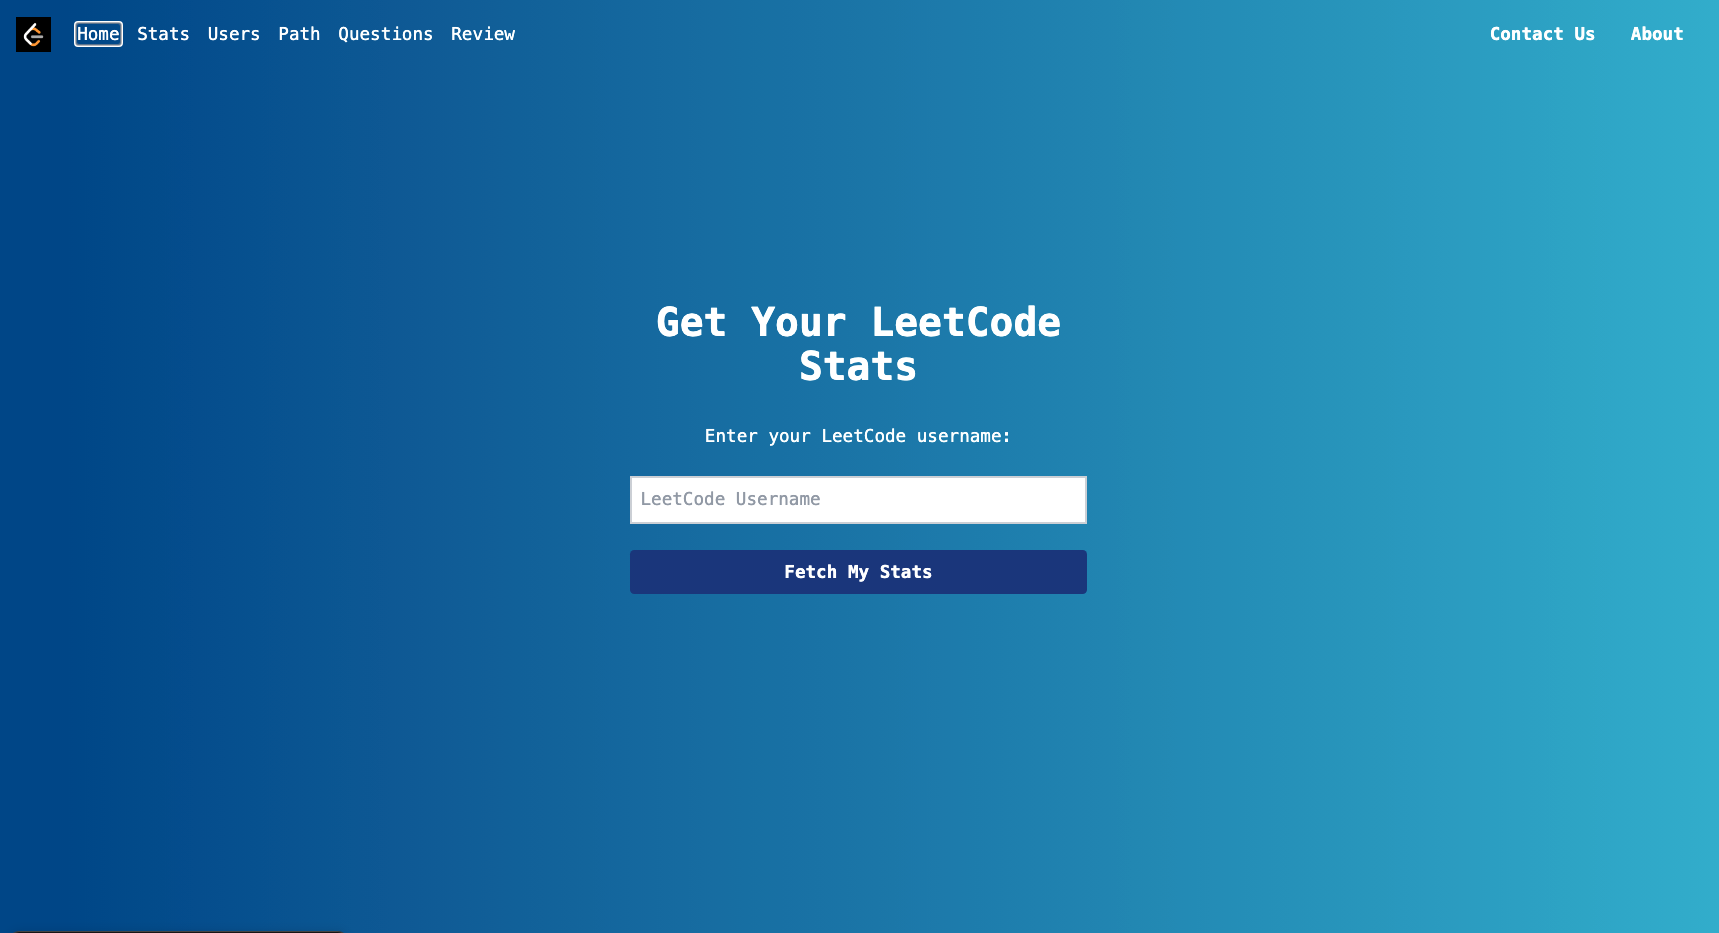
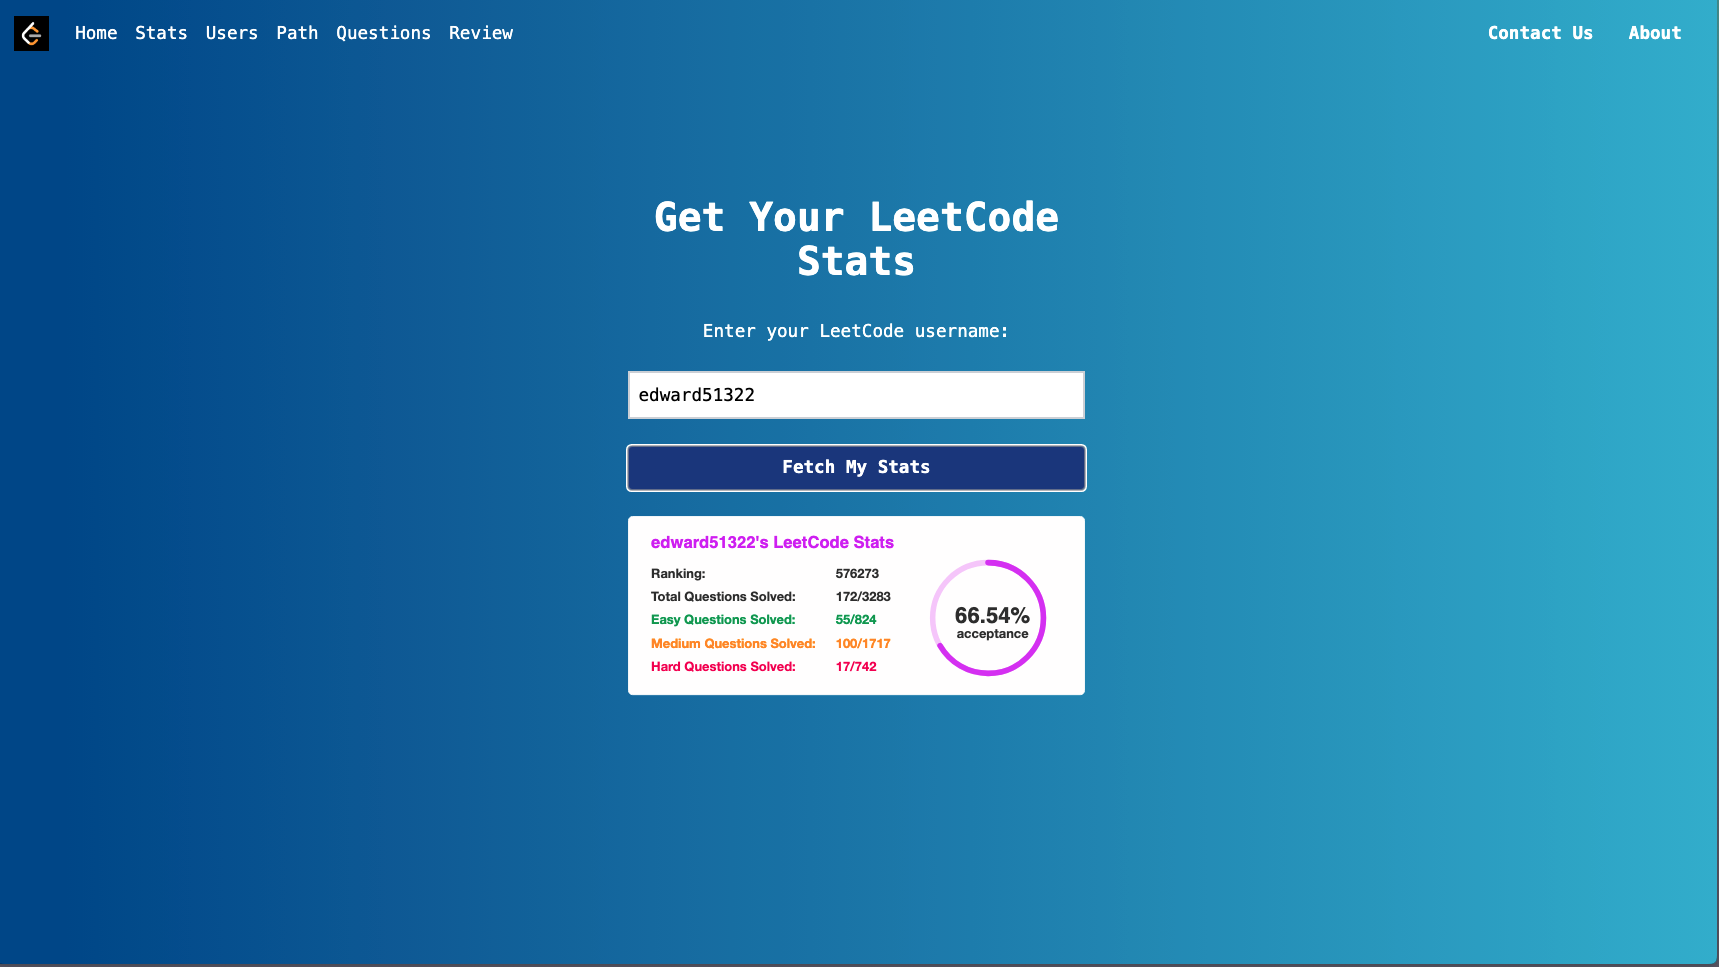
add example image

diff --git a/README.md b/README.md
@@ -1,7 +1,5 @@
 # LeetCode Stats API Application
 
-## Overview
-
 ## Getting Started
 
 To run the application locally, follow the steps below:
